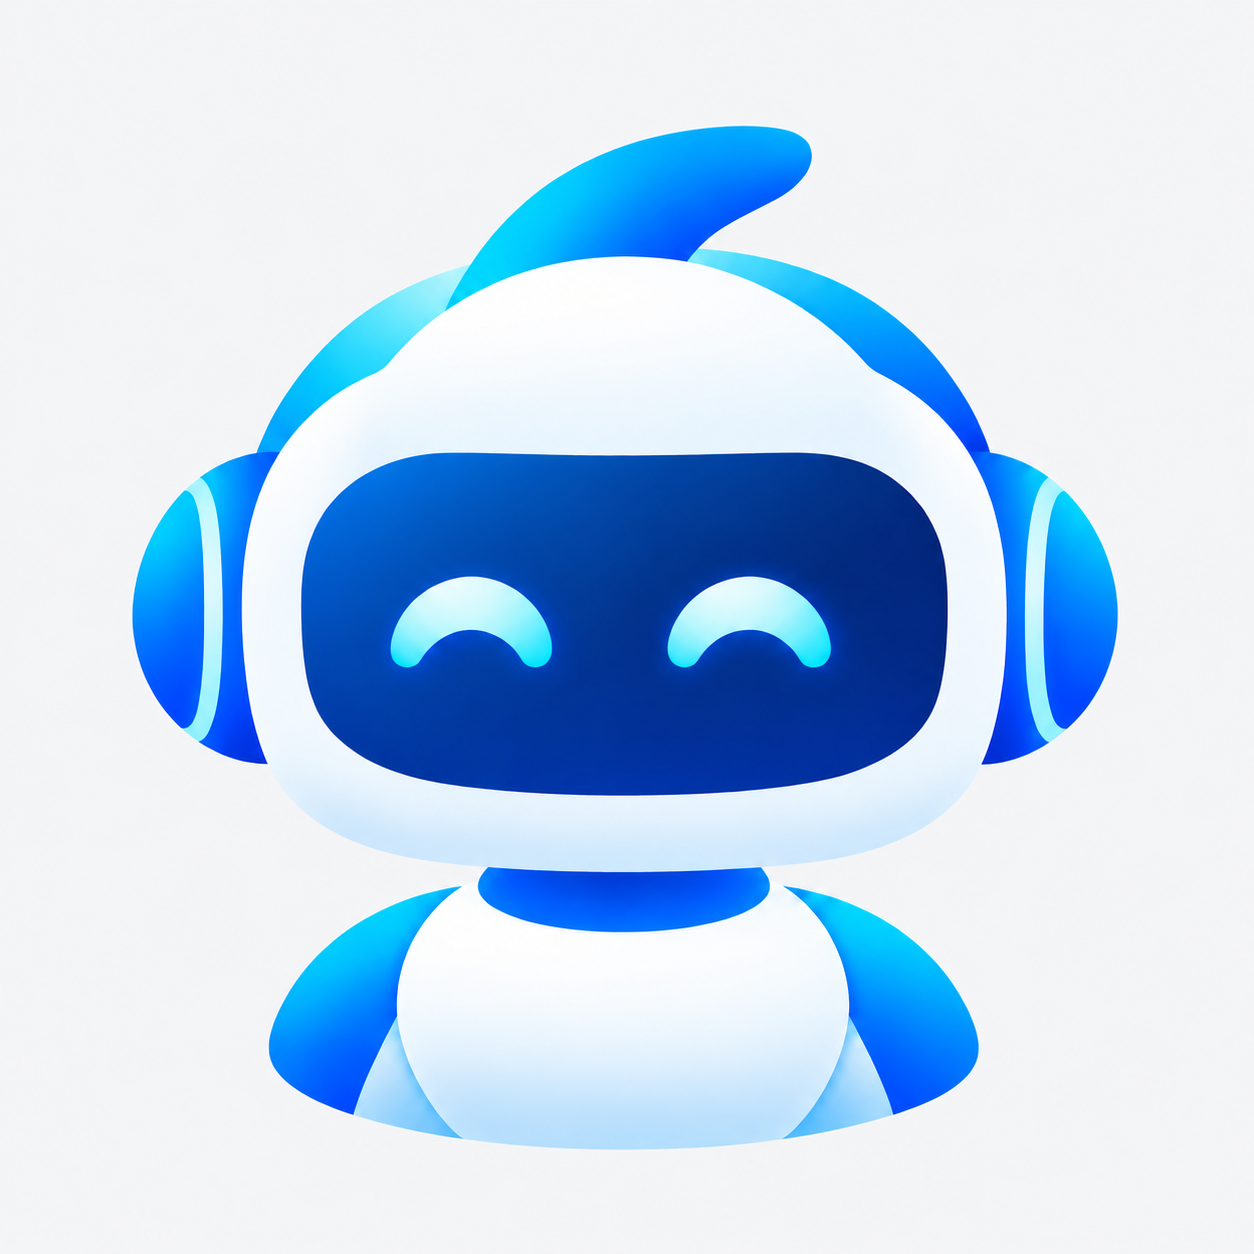
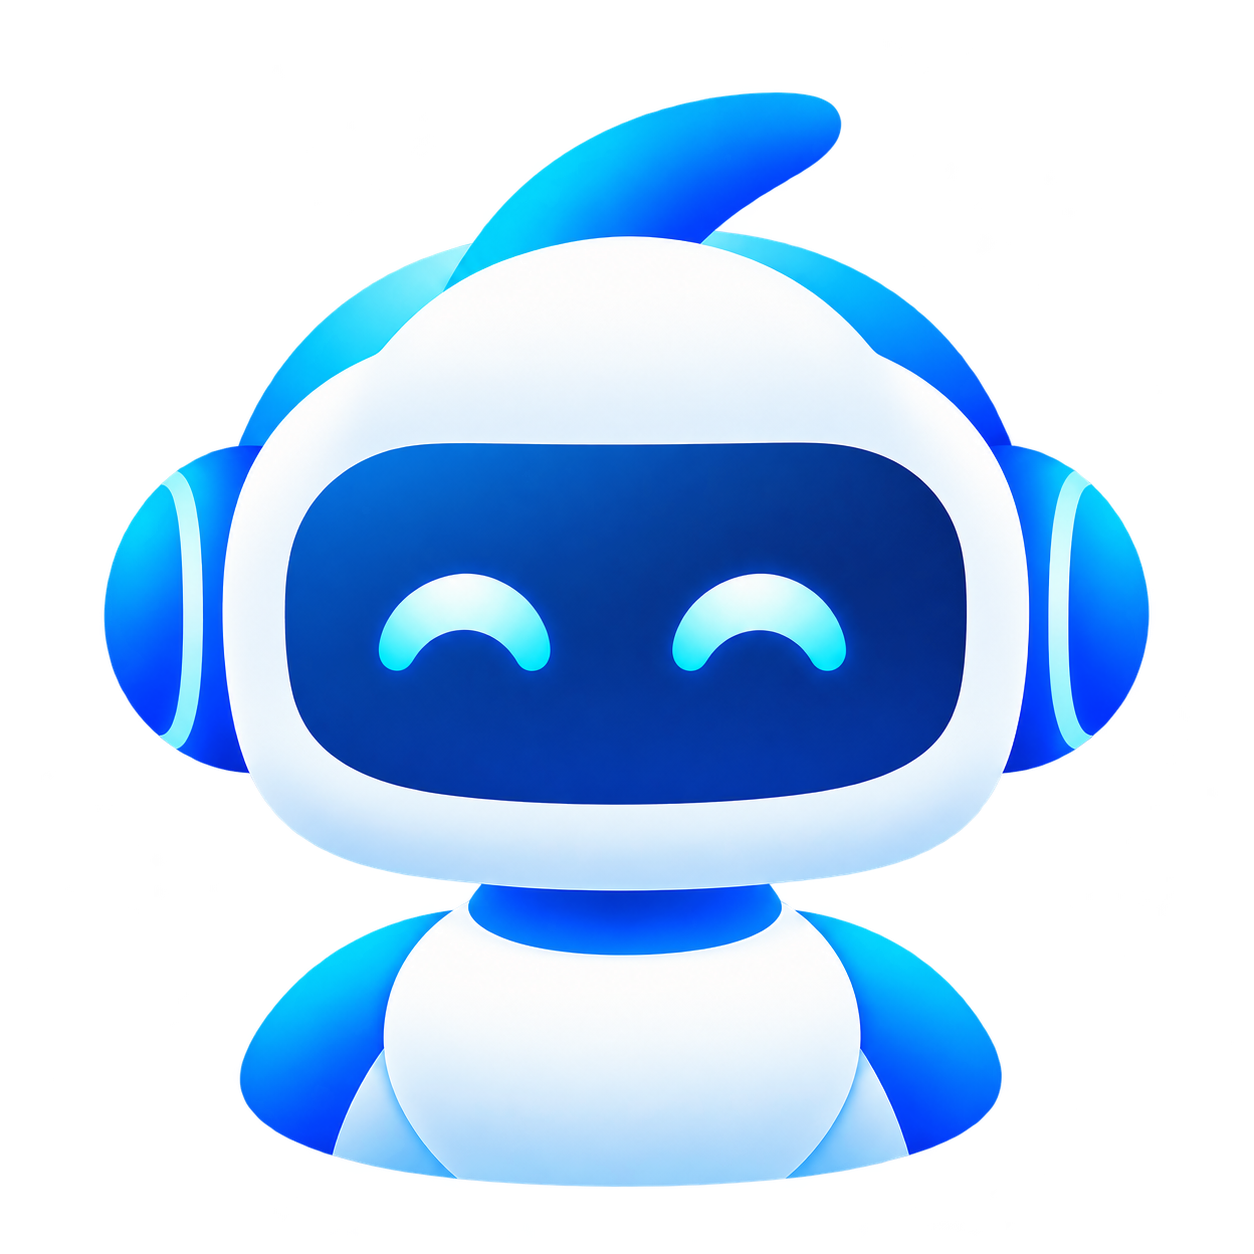
fix rms image

diff --git a/frontend/tests/workspace-file-browser.test.tsx b/frontend/tests/workspace-file-browser.test.tsx
@@ -24,22 +24,22 @@ describe("unified workspace root", () => {
       : page([file("/outputs/charts/chart.svg")]));
     attachments.mockResolvedValue(page([attachment("upload-id", "brief.pdf")]));
     const view = render(<WorkspaceFileBrowser {...props} />);
-    const output = await screen.findByRole("button", { name: "bee.html 输出" });
+    const output = await screen.findByRole("button", { name: "bee.html 产物" });
     const upload = screen.getByRole("button", { name: "brief.pdf 上传" });
     expect(screen.queryByRole("button", { name: "上传附件" })).toBeNull();
     expect(screen.queryByRole("button", { name: "outputs" })).toBeNull();
     expect(screen.getByRole("button", { name: "notes.txt" })).toBeTruthy();
     expect(directory.mock.calls.map((call) => call[1])).toEqual(["/", "/outputs"]);
-    expect([...view.container.querySelectorAll(".workspace-file-row")].map((row) => row.textContent)).toEqual(["charts输出", "images", "bee.html输出", "brief.pdf上传", "notes.txt"]);
+    expect([...view.container.querySelectorAll(".workspace-file-row")].map((row) => row.textContent)).toEqual(["charts产物", "images", "bee.html产物", "brief.pdf上传", "notes.txt"]);
     fireEvent.click(output);
     expect(props.onOpenFile).toHaveBeenLastCalledWith({ path: "/outputs/bee.html" });
     fireEvent.click(upload);
     expect(props.onOpenFile).toHaveBeenLastCalledWith({ attachment_id: "upload-id" });
-    fireEvent.click(screen.getByRole("button", { name: "charts 输出" }));
-    fireEvent.click(await screen.findByRole("button", { name: "chart.svg 输出" }));
+    fireEvent.click(screen.getByRole("button", { name: "charts 产物" }));
+    fireEvent.click(await screen.findByRole("button", { name: "chart.svg 产物" }));
     expect(props.onOpenFile).toHaveBeenLastCalledWith({ path: "/outputs/charts/chart.svg" });
-    fireEvent.click(screen.getByRole("button", { name: "charts 输出" }));
-    expect(screen.queryByRole("button", { name: "chart.svg 输出" })).toBeNull();
+    fireEvent.click(screen.getByRole("button", { name: "charts 产物" }));
+    expect(screen.queryByRole("button", { name: "chart.svg 产物" })).toBeNull();
   });
 
   it("keeps identically named files and folders separate by their actual references", async () => {
@@ -47,15 +47,15 @@ describe("unified workspace root", () => {
       : path === "/outputs" ? page([folder("/outputs/data"), file("/outputs/report.pdf")]) : page([file(`${path}/one.txt`)]));
     attachments.mockResolvedValue(page([attachment("first", "report.pdf"), attachment("second", "report.pdf")]));
     const view = render(<WorkspaceFileBrowser {...props} />);
-    await screen.findByRole("button", { name: "report.pdf 输出" });
+    await screen.findByRole("button", { name: "report.pdf 产物" });
     for (const row of screen.getAllByRole("button", { name: /^report.pdf/ })) fireEvent.click(row);
     expect(props.onOpenFile.mock.calls.map(([ref]) => ref)).toEqual(expect.arrayContaining([
       { workspace_path: "/report.pdf" }, { path: "/outputs/report.pdf" }, { attachment_id: "first" }, { attachment_id: "second" },
     ]));
     expect(props.onOpenFile).toHaveBeenCalledTimes(4);
     fireEvent.click(screen.getByRole("button", { name: "data", exact: true }));
-    fireEvent.click(screen.getByRole("button", { name: "data 输出" }));
-    await screen.findByRole("button", { name: "one.txt 输出" });
+    fireEvent.click(screen.getByRole("button", { name: "data 产物" }));
+    await screen.findByRole("button", { name: "one.txt 产物" });
     expect(view.container.querySelectorAll(".workspace-file-tree-node")).toHaveLength(2);
     expect(screen.getByRole("button", { name: "one.txt", exact: true })).toBeTruthy();
   });
@@ -75,9 +75,9 @@ describe("unified workspace root", () => {
       ? options.offset ? page([folder("/outputs")]) : page([folder("/aaa")], 200)
       : path === "/outputs" ? page([folder("/outputs/charts")]) : page([file("/outputs/charts/plot.svg")]));
     render(<WorkspaceFileBrowser {...props} location="/outputs/charts" selectedKey="/outputs/charts/plot.svg" />);
-    const row = await screen.findByRole("button", { name: "plot.svg 输出" });
+    const row = await screen.findByRole("button", { name: "plot.svg 产物" });
     await waitFor(() => expect(document.activeElement).toBe(row));
-    expect(screen.getByRole("button", { name: "charts 输出" }).getAttribute("aria-expanded")).toBe("true");
+    expect(screen.getByRole("button", { name: "charts 产物" }).getAttribute("aria-expanded")).toBe("true");
     expect(directory.mock.calls.map((call) => call[1])).not.toContain("/aaa");
   });
 
@@ -86,9 +86,9 @@ describe("unified workspace root", () => {
       : options.offset ? page([file("/outputs/second.txt")]) : page([file("/outputs/first.txt")], 200));
     attachments.mockImplementation(async (_scope, options) => options.offset ? page([attachment("second", "second.pdf")]) : page([attachment("first", "first.pdf")], 200));
     const view = render(<WorkspaceFileBrowser {...props} />);
-    await screen.findByRole("button", { name: "first.txt 输出" });
+    await screen.findByRole("button", { name: "first.txt 产物" });
     fireEvent.click(screen.getByRole("button", { name: "加载更多文件" }));
-    await screen.findByRole("button", { name: "second.txt 输出" });
+    await screen.findByRole("button", { name: "second.txt 产物" });
     expect(screen.getByRole("button", { name: "second.pdf 上传" })).toBeTruthy();
     const list = view.container.querySelector(".workspace-file-list")!;
     list.scrollTop = 120;
@@ -100,10 +100,10 @@ describe("unified workspace root", () => {
     view.rerender(<WorkspaceFileBrowser {...props} />);
     expect([directory.mock.calls.length, attachments.mock.calls.length]).toEqual(calls);
     expect(list.scrollTop).toBe(120);
-    expect(screen.getByRole("button", { name: "second.txt 输出" })).toBeTruthy();
+    expect(screen.getByRole("button", { name: "second.txt 产物" })).toBeTruthy();
     fireEvent.click(screen.getByRole("button", { name: "刷新文件列表" }));
-    await screen.findByRole("button", { name: "first.txt 输出" });
-    expect(screen.queryByRole("button", { name: "second.txt 输出" })).toBeNull();
+    await screen.findByRole("button", { name: "first.txt 产物" });
+    expect(screen.queryByRole("button", { name: "second.txt 产物" })).toBeNull();
     expect(screen.queryByRole("button", { name: "second.pdf 上传" })).toBeNull();
     expect(directory.mock.calls.filter((call) => call[1] === "/outputs" && call[2].offset === 0)).toHaveLength(2);
   });
@@ -113,13 +113,13 @@ describe("unified workspace root", () => {
       : path === "/outputs" ? page([folder("/outputs/charts")])
       : options.offset ? page([file("/outputs/charts/second.svg")], 400) : page([file("/outputs/charts/first.svg")], 200));
     const view = render(<WorkspaceFileBrowser {...props} />);
-    fireEvent.click(await screen.findByRole("button", { name: "charts 输出" }));
-    await screen.findByRole("button", { name: "first.svg 输出" });
+    fireEvent.click(await screen.findByRole("button", { name: "charts 产物" }));
+    await screen.findByRole("button", { name: "first.svg 产物" });
     fireEvent.click(screen.getByRole("button", { name: "加载更多文件" }));
-    await screen.findByRole("button", { name: "second.svg 输出" });
+    await screen.findByRole("button", { name: "second.svg 产物" });
     view.rerender(<WorkspaceFileBrowser {...props} active={false} />);
     view.rerender(<WorkspaceFileBrowser {...props} />);
-    expect(screen.getByRole("button", { name: "second.svg 输出" })).toBeTruthy();
+    expect(screen.getByRole("button", { name: "second.svg 产物" })).toBeTruthy();
     directory.mockImplementationOnce(() => new Promise(() => {}));
     fireEvent.click(screen.getByRole("button", { name: "加载更多文件" }));
     const signal = directory.mock.calls.at(-1)![3] as AbortSignal;
@@ -135,19 +135,19 @@ describe("unified workspace root", () => {
     });
     attachments.mockResolvedValue(page([attachment("brief", "brief.pdf")]));
     render(<WorkspaceFileBrowser {...props} />);
-    await screen.findByRole("button", { name: "first.txt 输出" });
+    await screen.findByRole("button", { name: "first.txt 产物" });
     fireEvent.click(screen.getByRole("button", { name: "加载更多文件" }));
     const error = await screen.findByRole("alert");
-    expect(error.textContent).toContain("输出文件加载失败");
+    expect(error.textContent).toContain("产物文件加载失败");
     expect(screen.getByRole("button", { name: "notes.txt" })).toBeTruthy();
     expect(screen.getByRole("button", { name: "brief.pdf 上传" })).toBeTruthy();
-    expect(screen.getByRole("button", { name: "first.txt 输出" })).toBeTruthy();
+    expect(screen.getByRole("button", { name: "first.txt 产物" })).toBeTruthy();
     directory.mockImplementation(async (_scope, path) => page([file(`${path}/second.txt`)]));
     fireEvent.click(within(error).getByRole("button", { name: "重试" }));
-    expect(await screen.findByRole("button", { name: "second.txt 输出" })).toBeTruthy();
+    expect(await screen.findByRole("button", { name: "second.txt 产物" })).toBeTruthy();
     expect(directory.mock.calls.at(-1)![2].offset).toBe(200);
     expect(screen.queryByRole("alert")).toBeNull();
-    expect(screen.getByRole("button", { name: "first.txt 输出" })).toBeTruthy();
+    expect(screen.getByRole("button", { name: "first.txt 产物" })).toBeTruthy();
   });
 
   it("shows uploads when the root fails, and displays one empty state when all sources are empty", async () => {
@@ -174,7 +174,7 @@ describe("unified workspace root", () => {
     expect(screen.getByText("当前还没有文件。")).toBeTruthy();
     created = true;
     await act(async () => { vi.advanceTimersByTime(5000); });
-    expect(screen.getByRole("button", { name: "new.txt 输出" })).toBeTruthy();
+    expect(screen.getByRole("button", { name: "new.txt 产物" })).toBeTruthy();
     expect(directory.mock.calls.map((call) => call[1])).toContain("/outputs");
   });
 

diff --git a/frontend/src/lib/workspaceFileListing.ts b/frontend/src/lib/workspaceFileListing.ts
@@ -4,13 +4,13 @@ import { fileRefKey, workspaceFileRef, type FileLocation, type FileRef } from ".
 
 export type FileRow = {
   name: string; kind: "directory" | "file"; path?: string; ref?: FileRef;
-  source?: "上传" | "输出";
+  source?: "上传" | "产物";
 };
 export type FileListing = { rows: FileRow[]; next: number | null; loading: boolean; error: string };
 export const EMPTY_LISTING: FileListing = { rows: [], next: null, loading: true, error: "" };
 export const ROOT_SOURCES = ["/", "attachments", "/outputs"] as const;
 export type RootSource = typeof ROOT_SOURCES[number];
-export const SOURCE_LABELS: Record<RootSource, string> = { "/": "工作区文件", attachments: "上传附件", "/outputs": "输出文件" };
+export const SOURCE_LABELS: Record<RootSource, string> = { "/": "工作区文件", attachments: "上传附件", "/outputs": "产物文件" };
 
 export function fileRowKey(row: FileRow): string {
   return row.ref ? fileRefKey(row.ref) : row.path!;
@@ -50,5 +50,5 @@ export async function readFileListing(scope: ResultScope, path: FileLocation, of
   const page = await workspaceDirectory(scope, path, options, signal);
   return { rows: page.items.map((item): FileRow => ({ name: item.name, kind: item.kind, path: item.path,
     ref: item.kind === "file" ? workspaceFileRef(item.path) : undefined,
-    source: item.path.startsWith("/outputs/") ? "输出" : undefined })), next_offset: page.next_offset };
+    source: item.path.startsWith("/outputs/") ? "产物" : undefined })), next_offset: page.next_offset };
 }

diff --git a/frontend/tests/artifacts.test.tsx b/frontend/tests/artifacts.test.tsx
@@ -104,10 +104,10 @@ describe("workspace file browser", () => {
     fireEvent.click(screen.getByRole("link", { name: "报告" }));
     await screen.findByTitle("report.html");
     fireEvent.click(screen.getByRole("button", { name: "文件", exact: true }));
-    const row = await within(screen.getByRole("region", { name: "文件列表" })).findByRole("button", { name: /^report.html 输出$/ });
+    const row = await within(screen.getByRole("region", { name: "文件列表" })).findByRole("button", { name: /^report.html 产物$/ });
     await waitFor(() => expect(document.activeElement).toBe(row));
     expect(directory).toHaveBeenCalledWith(expect.anything(), "/outputs", { q: "", sort: "name", offset: 200 }, expect.anything());
-    expect(screen.getByRole("button", { name: /^first.txt 输出$/ })).toBeTruthy();
+    expect(screen.getByRole("button", { name: /^first.txt 产物$/ })).toBeTruthy();
   });
   it("shows attachment original names and returns to the registered attachment list", async () => {
     attachments.mockResolvedValue({ items: [{ attachment_id: "registered-id", file_name: "原始资料.txt", size_bytes: 4, modified_at: "" }], next_offset: null });

diff --git a/frontend/src/styles/artifacts.css b/frontend/src/styles/artifacts.css
@@ -163,6 +163,7 @@
 .workspace-file-browser.toolbar-only { flex: 0 0 auto; }
 .file-browser-toolbar { gap: 4px; }
 .workspace-file-row { min-height: 36px; padding: 7px 8px; }
+.workspace-file-row:not(.workspace-directory-row) { padding-right: 34px; }
 .workspace-file-row.is-selected { background: var(--hover); border-color: transparent; }
 .workspace-file-name { display: block; overflow: hidden; text-overflow: ellipsis; white-space: nowrap; }
 .workspace-file-source { flex: 0 0 auto; padding: 1px 7px; border: 1px solid var(--line); border-radius: 999px; background: var(--hover); color: var(--muted); font-size: 12px; line-height: 18px; }

diff --git a/frontend/src/styles/sidebar.css b/frontend/src/styles/sidebar.css
@@ -93,8 +93,8 @@
 .brand-wordmark.is-rms-brand {
   width: 140px;
   flex-basis: 140px;
-  /* 抵消图片内部左侧留白，让 R 在下方新建对话按钮左边缘内侧 2px。 */
-  transform: translateX(-32.7px);
+  /* 抵消透明图片内部留白，让 R 的可见左边缘与新建对话按钮对齐。 */
+  transform: translateX(-28.8px);
 }
 
 .sidebar-primary-actions {

diff --git a/docs/FRONTEND.md b/docs/FRONTEND.md
@@ -4,7 +4,7 @@
 
 聊天消息的助手作者名、头像替代文本与任务表单执行助手名称由后端 `/api/auth/config` 的 `assistant_name` 下发，统一读取后端环境变量 `MELONCLAW_NAME`（去除首尾空格，未设置或为空时默认 `MelonClaw`）。修改后重启后端并刷新页面，无需重新构建前端；前端构建环境不再决定助手名称。
 
-根目录环境变量 `brand` 为 `rms`（忽略大小写）时，全局导航显示 AMP（A）和 Mindera（M），登录页采用左右分栏布局（左侧浅蓝玻璃环配图、右侧居中 Logo 与精简登录表单，900px 以下隐藏配图），登录页与侧栏字标使用 `melonclaw-word-rms.png`，侧栏字标抵消图片内部左侧留白，使字母 R 位于新建对话按钮左边缘内侧 2px；助手头像改用 `melonclaw-mark-rms.png`，Browser Tab 显示 `RMS · 投研助手` 并使用其 48×48 压缩 favicon。其他值或未设置时隐藏 A/M 并保留现有标题、favicon 和图片。默认 dev profile 读取 `.env`；prod 启动脚本使用 `prod` mode，Vite production build 也会读取 `.env.prod`。构建时显式传入的 `brand` 优先于仓库环境文件；Vite 不直接读取后端 `MELONCLAW_ENV_FILE`，不能把服务端凭据注入前端。品牌配置变化后重启前端或重新构建。
+根目录环境变量 `brand` 为 `rms`（忽略大小写）时，全局导航显示 AMP（A）和 Mindera（M），登录页采用左右分栏布局（左侧浅蓝玻璃环配图、右侧居中 Logo 与精简登录表单，900px 以下隐藏配图），登录页与侧栏字标使用 `melonclaw-word-rms.png`，侧栏字标抵消图片内部左侧留白，使字母 R 的可见左边缘与新建对话按钮左边缘对齐；助手头像改用 `melonclaw-mark-rms.png`，Browser Tab 显示 `RMS · 投研助手` 并使用其 48×48 压缩 favicon。其他值或未设置时隐藏 A/M 并保留现有标题、favicon 和图片。默认 dev profile 读取 `.env`；prod 启动脚本使用 `prod` mode，Vite production build 也会读取 `.env.prod`。构建时显式传入的 `brand` 优先于仓库环境文件；Vite 不直接读取后端 `MELONCLAW_ENV_FILE`，不能把服务端凭据注入前端。品牌配置变化后重启前端或重新构建。
 
 ## 1. 技术栈与命令
 
@@ -431,3 +431,7 @@ ResourceView 在模型后显示第四个环境变量 TAB，使用 18px 终端图
 任务编辑/新建抽屉底部仅有取消与保存：取消在左使用次级白底，保存在右使用主渐变；保存只保存配置（run_now=false），需要立即执行时从任务列表运行，不提供保存并运行。
 
 对话内容表面第一轮统一由styles/chat-content.css管理：代码框/附件/结果卡片复用resource-card表面、12px圆角、轻阴影，取消外描边；代码标题栏极淡蓝、正文语法配色与内部横滚保留。复制/查看/下载为轻文字操作；长附件名可换行。结果卡中嵌套表格/代码不重复叠加阴影；图片缩略图不画按钮底。正文、用户气泡、引用和执行时间线不改。
+
+2026-10-21：RMS 侧栏字标与助手头像重新生成并替换为具有真实 Alpha 通道的 PNG（原资源路径不变），去除浅色矩形底，保留蓝青渐变字形和蓝白机器人形象；默认品牌与 favicon 不变。
+
+文件栏来源胶囊统一使用“产物”（生成文件）与“上传”（附件）；文件行右侧预留与目录展开箭头及间距相同的 26px，确保同层文件和文件夹胶囊右边缘对齐。
